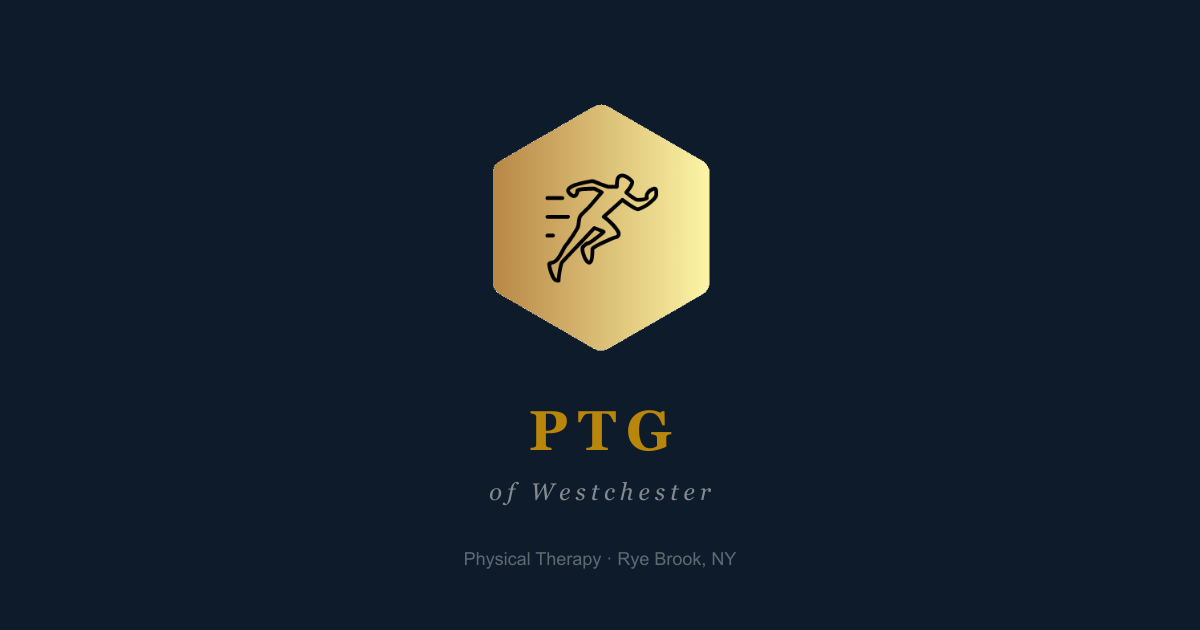
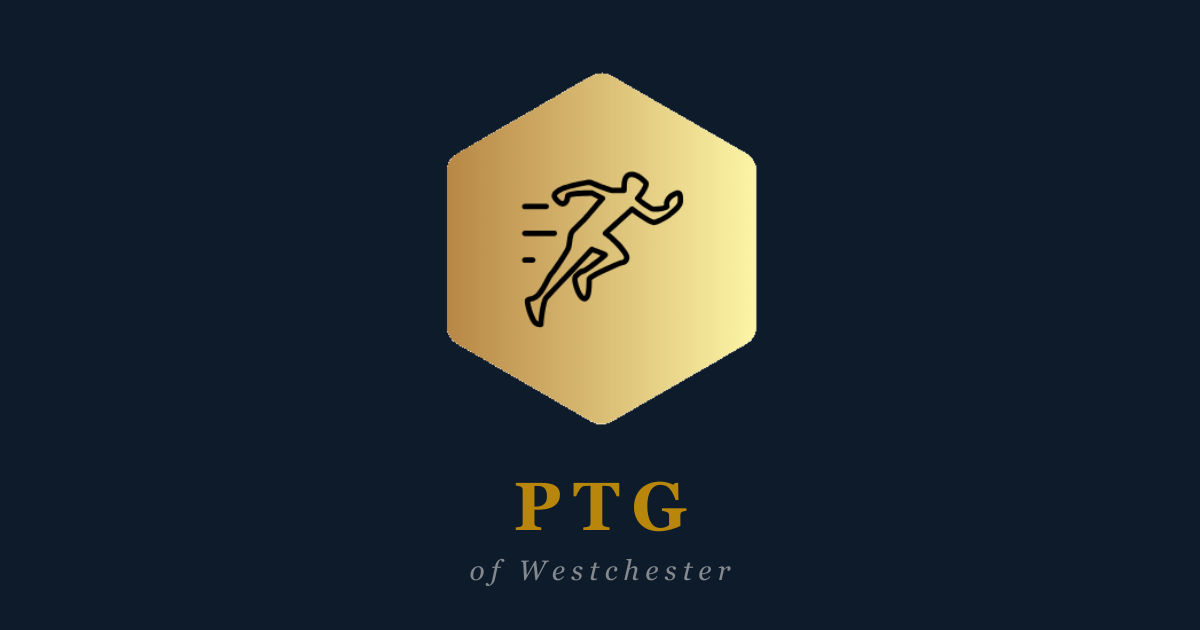
Make footer contact info clickable and enlarge OG image
- Address links to Google Maps in both footer sections
- Phone and email were already linked (tel:/mailto:)
- Enlarged logo and text in OG preview image, less empty space

Changed region(s): [[0.37, 0.1206, 0.6475, 0.7238], [0.4008, 0.754, 0.5858, 0.8444], [0.37, 0.8746, 0.6167, 0.9349]]

diff --git a/src/components/layout/SiteFooter.vue b/src/components/layout/SiteFooter.vue
@@ -59,7 +59,9 @@ const fullAddress = `${site.address.street}, ${site.address.suite}, ${site.addre
             <a :href="`mailto:${site.email}`" class="hover:text-ivory transition-colors">
               {{ site.email }}
             </a>
-            <p>{{ fullAddress }}</p>
+            <a :href="`https://www.google.com/maps/search/?api=1&query=${encodeURIComponent(fullAddress)}`" target="_blank" rel="noopener noreferrer" class="hover:text-ivory transition-colors">
+              {{ fullAddress }}
+            </a>
           </div>
         </div>
 
@@ -90,7 +92,7 @@ const fullAddress = `${site.address.street}, ${site.address.suite}, ${site.addre
         <p class="cursor-default select-none" @click="handleCopyrightClick">
           &copy; {{ new Date().getFullYear() }} Physical Therapy Group of Westchester. All rights reserved.
         </p>
-        <p>10 Rye Ridge Plaza, Suite 219, Rye Brook, NY 10573</p>
+        <a :href="`https://www.google.com/maps/search/?api=1&query=${encodeURIComponent(fullAddress)}`" target="_blank" rel="noopener noreferrer" class="hover:text-ivory/60 transition-colors">10 Rye Ridge Plaza, Suite 219, Rye Brook, NY 10573</a>
       </div>
     </div>
   </footer>
